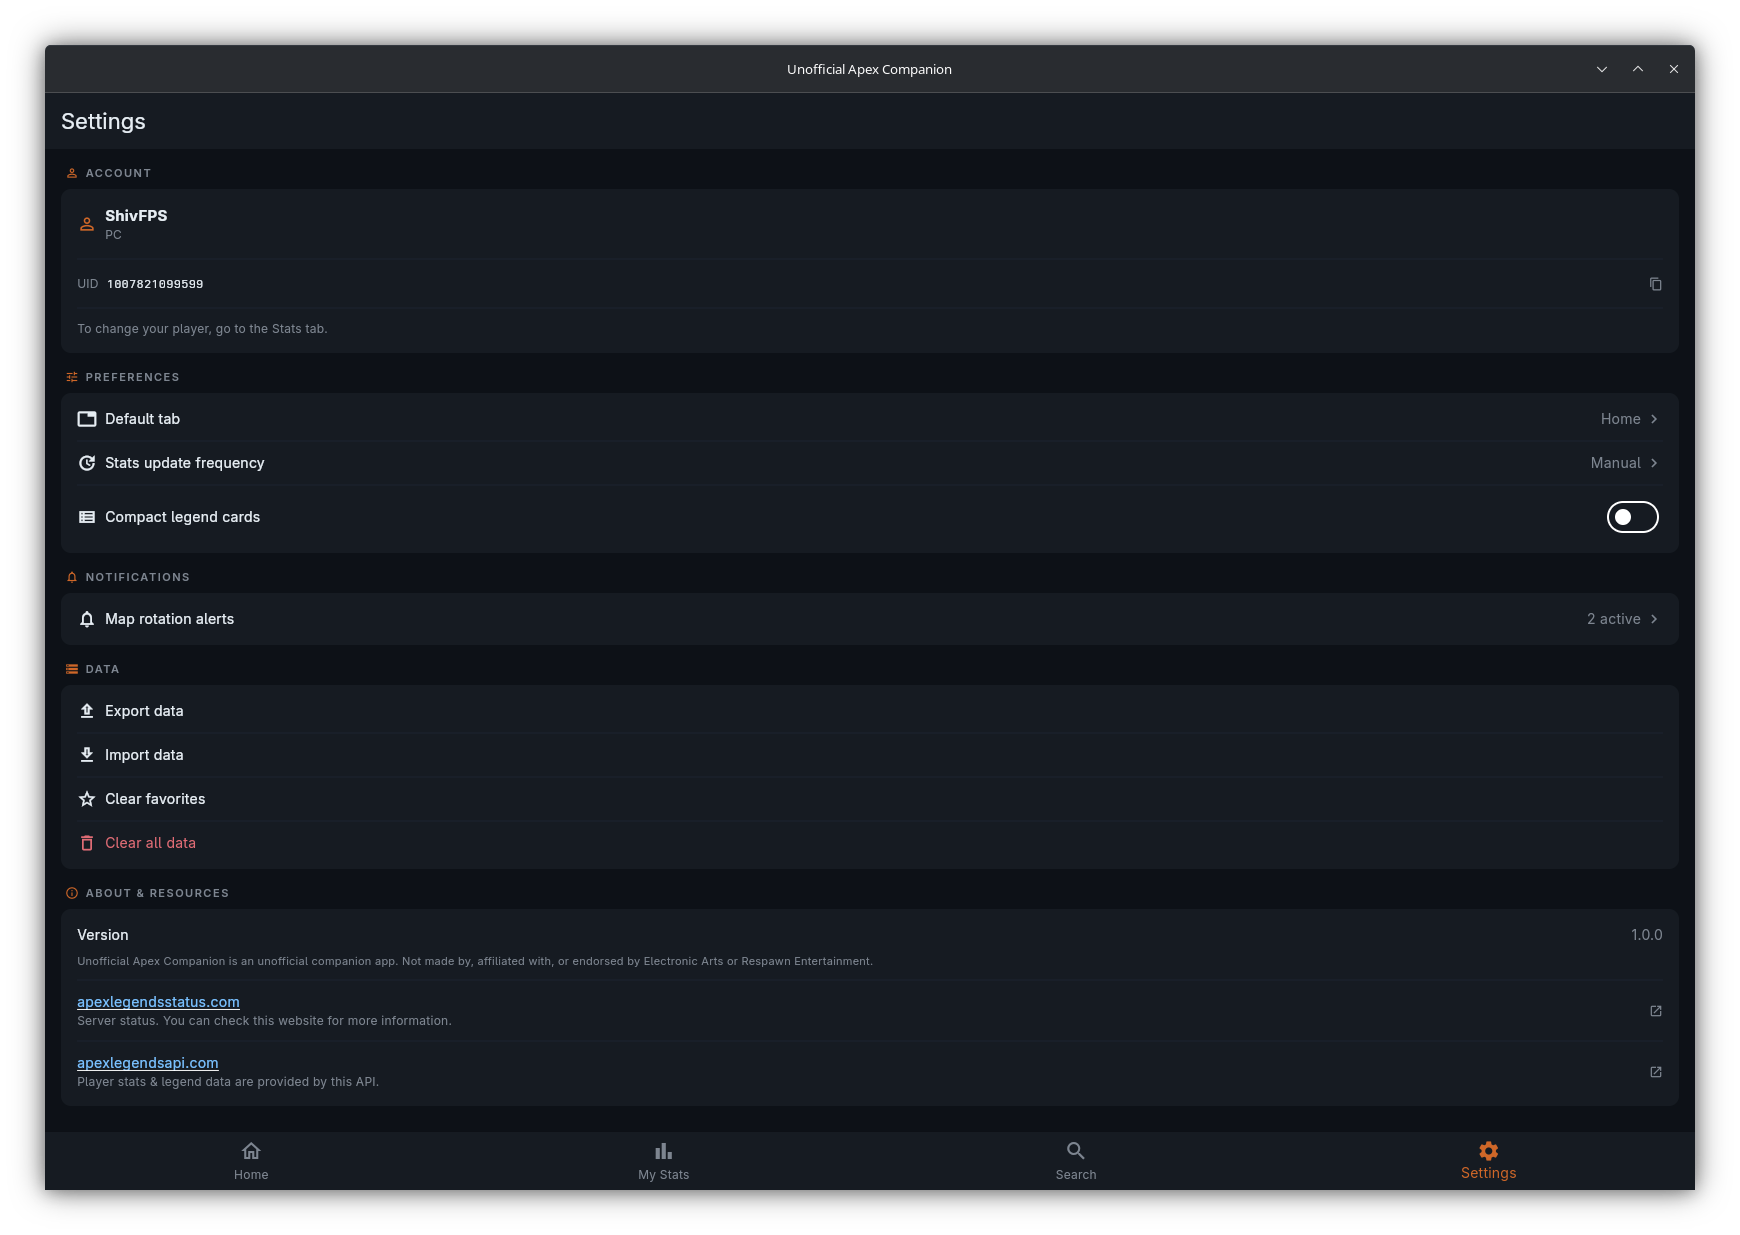
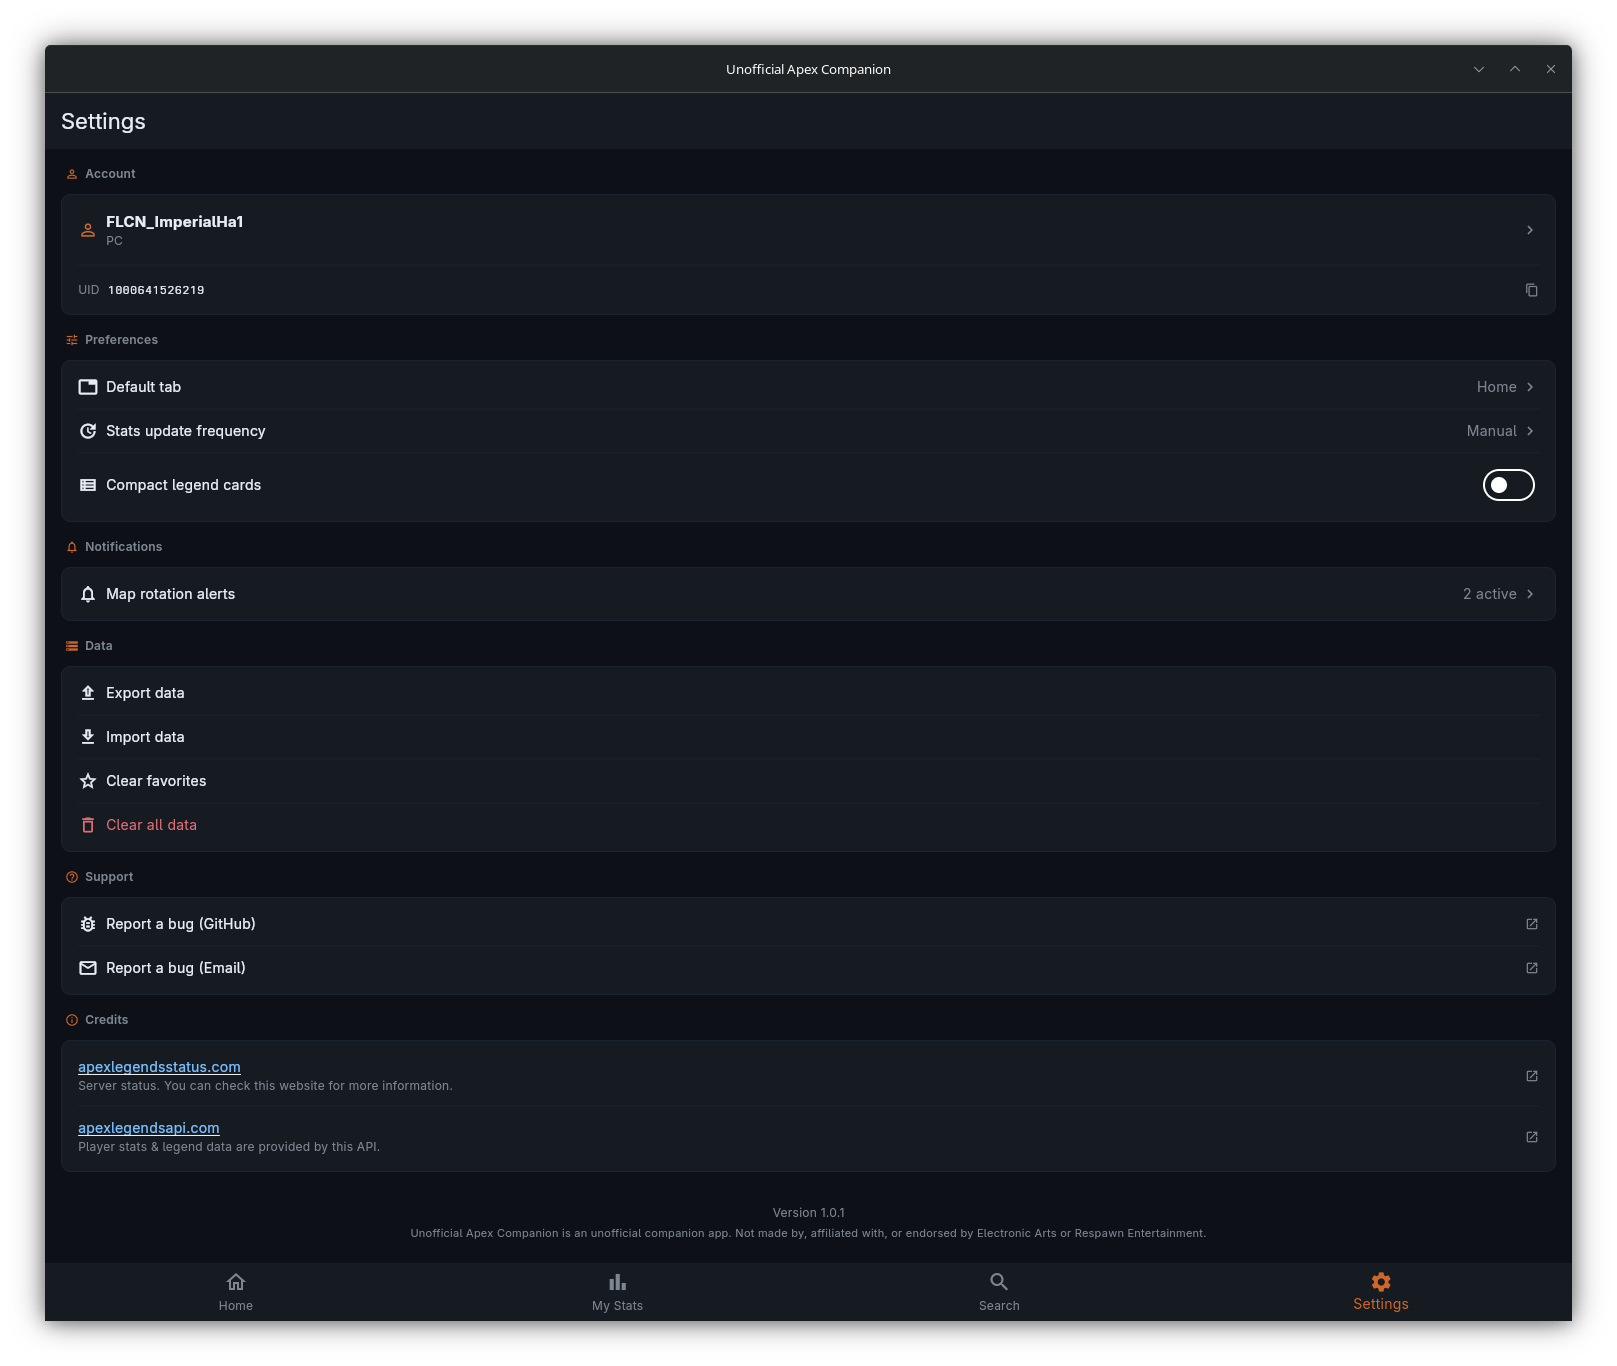
Modernize Settings page design
- Modernize styling and update sections
- Add GitHub + Email bug reporting with device info

diff --git a/lib/screens/settings/settings_screen.dart b/lib/screens/settings/settings_screen.dart
@@ -1,7 +1,13 @@
+import 'dart:async' show unawaited;
+import 'dart:io';
+
 import 'package:flutter/material.dart';
+import 'package:flutter/services.dart';
 import 'package:flutter_riverpod/flutter_riverpod.dart';
+import 'package:url_launcher/url_launcher.dart';
 import '../../constants/api_constants.dart';
 import '../../providers/api_provider.dart';
+import '../../utils/notifications.dart';
 import '../../utils/theme.dart';
 import '../../widgets/widgets.dart';
 import 'widgets/cache_settings_section.dart';
@@ -11,6 +17,38 @@ import 'widgets/stats_refresh_section.dart';
 
 class SettingsScreen extends ConsumerWidget {
   const SettingsScreen({super.key});
+
+  static String _buildBugReportUrl(String version) {
+    final body = Uri.encodeComponent(
+      '**App version:** $version\n'
+      '**Platform:** ${Platform.operatingSystem}\n'
+      '**OS version:** ${Platform.operatingSystemVersion}\n\n'
+      '**Describe the bug**\n'
+      '<!-- What happened? What did you expect? -->\n\n'
+      '**Steps to reproduce**\n'
+      '1. \n'
+      '2. \n\n'
+      '**Additional context**\n'
+      '<!-- Screenshots, logs, etc. -->',
+    );
+    return 'https://github.com/ajwadtahmid/Unofficial-Apex-Companion/issues/new?body=$body';
+  }
+
+  static String _buildBugReportEmailUrl(String version) {
+    final body = Uri.encodeComponent(
+      'App version: $version\n'
+      'Platform: ${Platform.operatingSystem}\n'
+      'OS version: ${Platform.operatingSystemVersion}\n\n'
+      'Describe the bug:\n'
+      '(What happened? What did you expect?)\n\n'
+      'Steps to reproduce:\n'
+      '1. \n'
+      '2. \n\n'
+      'Additional context:\n'
+      '(Screenshots, logs, etc.)',
+    );
+    return 'mailto:[email redacted]?subject=Unofficial+Apex+Companion+Bug+Report&body=$body';
+  }
 
   @override
   Widget build(BuildContext context, WidgetRef ref) {
@@ -28,32 +66,45 @@ class SettingsScreen extends ConsumerWidget {
           const CacheSettingsSection(),
           const SizedBox(height: AppTheme.md),
 
-          // ── About & Resources ─────────────────────────────────────
-          const SectionLabel(label: 'ABOUT & RESOURCES', icon: Icons.info_outline),
+          // ── Support ─────────────────────────────────────
+          const SectionLabel(label: 'Support', icon: Icons.help_outline),
           SettingsCard(
             child: Column(
               crossAxisAlignment: CrossAxisAlignment.start,
               children: [
-                InfoRow(
-                  label: 'Version',
-                  value: ref
-                          .watch(packageInfoProvider)
-                          .whenOrNull(data: (info) => info.version) ??
-                      '—',
-                ),
-                const SizedBox(height: AppTheme.sm),
-                const Text(
-                  'Unofficial Apex Companion is an unofficial companion app. Not made by, affiliated with, or endorsed by Electronic Arts or Respawn Entertainment.',
-                  style: TextStyle(color: AppTheme.muted, fontSize: 11, height: 1.4),
+                _SupportRow(
+                  icon: Icons.bug_report_outlined,
+                  label: 'Report a bug (GitHub)',
+                  url: _buildBugReportUrl(
+                    ref.watch(packageInfoProvider).whenOrNull(data: (info) => info.version) ?? '—',
+                  ),
                 ),
                 const Divider(color: AppTheme.surface2, height: 24),
-                const LinkRow(
+                _SupportRow(
+                  icon: Icons.mail_outline,
+                  label: 'Report a bug (Email)',
+                  url: _buildBugReportEmailUrl(
+                    ref.watch(packageInfoProvider).whenOrNull(data: (info) => info.version) ?? '—',
+                  ),
+                ),
+              ],
+            ),
+          ),
+          const SizedBox(height: AppTheme.md),
+
+          // ── Credits ─────────────────────────────────────
+          const SectionLabel(label: 'Credits', icon: Icons.info_outline),
+          const SettingsCard(
+            child: Column(
+              crossAxisAlignment: CrossAxisAlignment.start,
+              children: [
+                LinkRow(
                   label: 'apexlegendsstatus.com',
                   subtitle: 'Server status. You can check this website for more information.',
                   url: ApiConstants.apexStatusUrl,
                 ),
-                const Divider(color: AppTheme.surface2, height: 24),
-                const LinkRow(
+                Divider(color: AppTheme.surface2, height: 24),
+                LinkRow(
                   label: 'apexlegendsapi.com',
                   subtitle: 'Player stats & legend data are provided by this API.',
                   url: ApiConstants.apexApiUrl,
@@ -63,6 +114,64 @@ class SettingsScreen extends ConsumerWidget {
           ),
 
           const SizedBox(height: AppTheme.xl),
+          Center(
+            child: Column(
+              children: [
+                GestureDetector(
+                  onTap: () {
+                    final version = ref.read(packageInfoProvider).whenOrNull(data: (info) => info.version) ?? '—';
+                    Clipboard.setData(ClipboardData(text: version));
+                    context.showMessage('Version copied', duration: const Duration(seconds: 2));
+                  },
+                  child: Text(
+                    'Version ${ref.watch(packageInfoProvider).whenOrNull(data: (info) => info.version) ?? '—'}',
+                    style: const TextStyle(color: AppTheme.muted, fontSize: 12),
+                  ),
+                ),
+                const SizedBox(height: AppTheme.xs),
+                const Padding(
+                  padding: EdgeInsets.symmetric(horizontal: AppTheme.lg),
+                  child: Text(
+                    'Unofficial Apex Companion is an unofficial companion app. Not made by, affiliated with, or endorsed by Electronic Arts or Respawn Entertainment.',
+                    textAlign: TextAlign.center,
+                    style: TextStyle(color: AppTheme.muted, fontSize: 11, height: 1.4),
+                  ),
+                ),
+              ],
+            ),
+          ),
+
+          const SizedBox(height: AppTheme.xl),
+        ],
+      ),
+    );
+  }
+}
+
+class _SupportRow extends StatelessWidget {
+  final IconData icon;
+  final String label;
+  final String url;
+
+  const _SupportRow({
+    required this.icon,
+    required this.label,
+    required this.url,
+  });
+
+  @override
+  Widget build(BuildContext context) {
+    return InkWell(
+      borderRadius: BorderRadius.circular(AppTheme.radiusSm),
+      onTap: () => unawaited(launchUrl(Uri.parse(url), mode: LaunchMode.externalApplication)),
+      child: Row(
+        children: [
+          Icon(icon, color: AppTheme.textPrimary, size: 20),
+          const SizedBox(width: AppTheme.sm),
+          Expanded(
+            child: Text(label, style: const TextStyle(fontSize: 14)),
+          ),
+          const Icon(Icons.open_in_new, color: AppTheme.muted, size: 14),
         ],
       ),
     );

diff --git a/lib/screens/settings/widgets/general_settings_section.dart b/lib/screens/settings/widgets/general_settings_section.dart
@@ -18,10 +18,13 @@ class GeneralSettingsSection extends ConsumerWidget {
     return Column(
       crossAxisAlignment: CrossAxisAlignment.start,
       children: [
-        const SectionLabel(label: 'ACCOUNT', icon: Icons.person_outline),
+        const SectionLabel(label: 'Account', icon: Icons.person_outline),
         SettingsCard(
           child: settings.isPlayerSet
-              ? _PlayerInfoContent(settings: settings)
+              ? _PlayerInfoContent(
+                  settings: settings,
+                  onChangeTap: () => ref.read(currentTabProvider.notifier).setTab(1),
+                )
               : _NoPlayerContent(onTap: () => ref.read(currentTabProvider.notifier).setTab(1)),
         ),
       ],
@@ -31,33 +34,39 @@ class GeneralSettingsSection extends ConsumerWidget {
 
 class _PlayerInfoContent extends StatelessWidget {
   final PlayerSettings settings;
-  const _PlayerInfoContent({required this.settings});
+  final VoidCallback onChangeTap;
+  const _PlayerInfoContent({required this.settings, required this.onChangeTap});
 
   @override
   Widget build(BuildContext context) {
     return Column(
       crossAxisAlignment: CrossAxisAlignment.start,
       children: [
-        Row(
-          children: [
-            const Icon(Icons.person_outline, color: AppTheme.accent, size: 20),
-            const SizedBox(width: AppTheme.sm),
-            Expanded(
-              child: Column(
-                crossAxisAlignment: CrossAxisAlignment.start,
-                children: [
-                  Text(
-                    settings.name,
-                    style: const TextStyle(fontWeight: FontWeight.bold, fontSize: 15),
-                  ),
-                  Text(
-                    ApiConstants.labelFor(settings.platform),
-                    style: const TextStyle(color: AppTheme.muted, fontSize: 12),
-                  ),
-                ],
+        InkWell(
+          borderRadius: BorderRadius.circular(AppTheme.radiusSm),
+          onTap: onChangeTap,
+          child: Row(
+            children: [
+              const Icon(Icons.person_outline, color: AppTheme.accent, size: 20),
+              const SizedBox(width: AppTheme.sm),
+              Expanded(
+                child: Column(
+                  crossAxisAlignment: CrossAxisAlignment.start,
+                  children: [
+                    Text(
+                      settings.name,
+                      style: const TextStyle(fontWeight: FontWeight.bold, fontSize: 15),
+                    ),
+                    Text(
+                      ApiConstants.labelFor(settings.platform),
+                      style: const TextStyle(color: AppTheme.muted, fontSize: 12),
+                    ),
+                  ],
+                ),
               ),
-            ),
-          ],
+              const Icon(Icons.chevron_right, color: AppTheme.muted, size: 18),
+            ],
+          ),
         ),
         const SizedBox(height: AppTheme.sm),
         const Divider(color: AppTheme.surface2),
@@ -90,13 +99,6 @@ class _PlayerInfoContent extends StatelessWidget {
             ],
           ),
         ),
-        const SizedBox(height: AppTheme.sm),
-        const Divider(color: AppTheme.surface2),
-        const SizedBox(height: AppTheme.xs),
-        const Text(
-          'To change your player, go to the Stats tab.',
-          style: TextStyle(color: AppTheme.muted, fontSize: 12),
-        ),
       ],
     );
   }
@@ -113,11 +115,14 @@ class _NoPlayerContent extends StatelessWidget {
       onTap: onTap,
       child: const Row(
         children: [
-          Icon(Icons.person_outline, color: AppTheme.muted, size: 20),
+          Icon(Icons.person_outline, color: AppTheme.textPrimary, size: 20),
           SizedBox(width: AppTheme.sm),
-          Text('No player set up', style: TextStyle(color: AppTheme.muted)),
-          Spacer(),
-          Text('Go to My Stats →', style: TextStyle(color: AppTheme.accent, fontSize: 13)),
+          Expanded(
+            child: Text('No player set up', style: TextStyle(color: AppTheme.textPrimary)),
+          ),
+          Text('Go to My Stats', style: TextStyle(color: AppTheme.accent, fontSize: 13)),
+          SizedBox(width: AppTheme.xs),
+          Icon(Icons.arrow_forward, color: AppTheme.accent, size: 18),
         ],
       ),
     );

diff --git a/lib/widgets/setting_row.dart b/lib/widgets/setting_row.dart
@@ -13,7 +13,7 @@ class SectionLabel extends StatelessWidget {
   @override
   Widget build(BuildContext context) {
     return Padding(
-      padding: const EdgeInsets.only(bottom: 8, left: 4),
+      padding: const EdgeInsets.only(bottom: 12, left: 4),
       child: IconTextRow(
         icon: icon,
         text: label,
@@ -22,9 +22,8 @@ class SectionLabel extends StatelessWidget {
         gap: 6,
         textStyle: const TextStyle(
           color: AppTheme.muted,
-          fontSize: 11,
+          fontSize: 12,
           fontWeight: FontWeight.w600,
-          letterSpacing: 1.5,
         ),
       ),
     );
@@ -74,25 +73,6 @@ class ActionRow extends StatelessWidget {
   }
 }
 
-class InfoRow extends StatelessWidget {
-  final String label;
-  final String value;
-  const InfoRow({super.key, required this.label, required this.value});
-
-  @override
-  Widget build(BuildContext context) {
-    return Row(
-      mainAxisAlignment: MainAxisAlignment.spaceBetween,
-      children: [
-        Text(label, style: const TextStyle(fontSize: 14)),
-        Text(
-          value,
-          style: const TextStyle(color: AppTheme.muted, fontSize: 14),
-        ),
-      ],
-    );
-  }
-}
 
 class LinkRow extends StatelessWidget {
   final String label;

diff --git a/lib/constants/ui_strings.dart b/lib/constants/ui_strings.dart
@@ -1,5 +1,7 @@
 // Long-form UI strings that don't belong in api_constants.dart.
 
-const predatorPageInfo = 'All Masters have a hidden ladder ranking that is only displayed when being a Predator (you can still see it on the website on your profile page). The total amount of masters is guessed using the highest ranking found in the ALS database. The number found is very likely to be under-estimated, as all masters players are not in the ALS database. However, if the last master is in our database, the ranking will be 100% accurate.';
+const predatorPageInfo =
+    'All Masters have a hidden ladder ranking that is only displayed when being a Predator (you can still see it on the website on your profile page). The total amount of masters is guessed using the highest ranking found in the ALS database. The number found is very likely to be under-estimated, as all masters players are not in the ALS database. However, if the last master is in our database, the ranking will be 100% accurate.';
 
-const uidWarningMessage = 'You can find the UID from deep search on apexlegendsstatus.com';
+const uidWarningMessage =
+    'Click (Find your UID), search for your profile and visit it, then copy the UID from the end of the URL';

diff --git a/lib/screens/settings/widgets/cache_settings_section.dart b/lib/screens/settings/widgets/cache_settings_section.dart
@@ -16,7 +16,7 @@ class CacheSettingsSection extends ConsumerWidget {
     return Column(
       crossAxisAlignment: CrossAxisAlignment.start,
       children: [
-        const SectionLabel(label: 'DATA', icon: Icons.storage),
+        const SectionLabel(label: 'Data', icon: Icons.storage),
         SettingsCard(
           child: Column(
             crossAxisAlignment: CrossAxisAlignment.start,

diff --git a/lib/screens/settings/widgets/notification_settings_section.dart b/lib/screens/settings/widgets/notification_settings_section.dart
@@ -15,7 +15,7 @@ class NotificationSettingsSection extends ConsumerWidget {
     return Column(
       crossAxisAlignment: CrossAxisAlignment.start,
       children: [
-        const SectionLabel(label: 'NOTIFICATIONS', icon: Icons.notifications_outlined),
+        const SectionLabel(label: 'Notifications', icon: Icons.notifications_outlined),
         SettingsCard(
           child: InkWell(
             borderRadius: BorderRadius.circular(AppTheme.radiusSm),

diff --git a/lib/screens/settings/widgets/stats_refresh_section.dart b/lib/screens/settings/widgets/stats_refresh_section.dart
@@ -28,7 +28,7 @@ class StatsRefreshSection extends ConsumerWidget {
     return Column(
       crossAxisAlignment: CrossAxisAlignment.start,
       children: [
-        const SectionLabel(label: 'PREFERENCES', icon: Icons.tune),
+        const SectionLabel(label: 'Preferences', icon: Icons.tune),
         SettingsCard(
           child: Column(
             crossAxisAlignment: CrossAxisAlignment.start,

diff --git a/lib/widgets/surface_card.dart b/lib/widgets/surface_card.dart
@@ -28,7 +28,7 @@ class SurfaceCard extends StatelessWidget {
       decoration: BoxDecoration(
         color: AppTheme.surface,
         borderRadius: BorderRadius.circular(radius ?? AppTheme.radiusMd),
-        border: border,
+        border: border ?? Border.all(color: AppTheme.surface2, width: 1),
       ),
       child: child,
     );